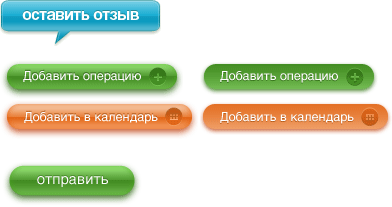
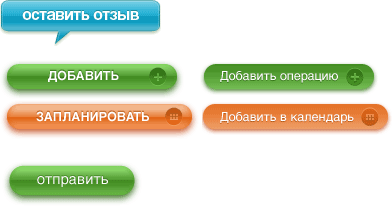
перерисовал кнопки "добавить" и "запланировать", добавил красочный заголовок к диалогам
git-svn-id: svn://hm.podzone.net/branches/sprint_5@3618 240b7755-b59a-4df0-b20f-7dab6991996d

Changed region(s): [[0.0612, 0.5217, 0.398, 0.6087], [0.0612, 0.3188, 0.3673, 0.4058]]

diff --git a/www/css/dialogBox.css b/www/css/dialogBox.css
@@ -1,45 +1,23 @@
-.dialog_box {
-	background:none repeat scroll 0 0 #FFFFFF;
-	border:1px solid #3B5998;
-	margin:0 auto;
-	overflow:hidden;
-	padding-bottom:10px;
-	width:510px;
+body .ui-dialog .ui-dialog-titlebar {
+    margin-left: -2px;
+    margin-top: -2px;
+    margin-right: -6px;
+    padding-right: 9px;
+    background-image: url("/img/i/bg_menu.png");
+    background-position: -10px 0px;
 }
 
-.dialog_box .dialog_title {
-	background:url("../images/bg.png") no-repeat scroll 0 -810px transparent;
-	height:28px;
-	overflow:hidden;
+body .ui-dialog .ui-dialog-title {
+    color: white;
 }
 
-.dialog_title h1 {
-	color:#FFFFFF;
-	float:left;
-	font-weight:700;
-	height:28px;
-	line-height:22px;
-	padding-left:10px;
+body .ui-dialog.ui-widget-content .ui-resizable-nw,
+body .ui-dialog.ui-widget-content .ui-resizable-ne {
+    background: none;
 }
 
-.dialog_title span {
-	display:block;
-	float:right;
-	height:20px;
-	margin-right:10px;
-	overflow:hidden;
-	width:34px;
+body .ui-dialog .ui-dialog-titlebar a.ui-dialog-titlebar-close .ui-icon.ui-icon-closethick {
+    margin-left: -10px;
+    background: url("/img/i/jQuery/ico_close_white.gif") no-repeat scroll 50% 50% transparent;
 }
 
-.dialog_title span a {
-	background:url("../images/bg.png") no-repeat scroll -764px -36px transparent;
-	display:block;
-	height:19px;
-	overflow:hidden;
-	text-indent:-999px;
-	width:34px;
-}
-
-.dialog_title span a:hover {
-	background:url("../images/bg.png") no-repeat scroll -764px -56px transparent;
-}
